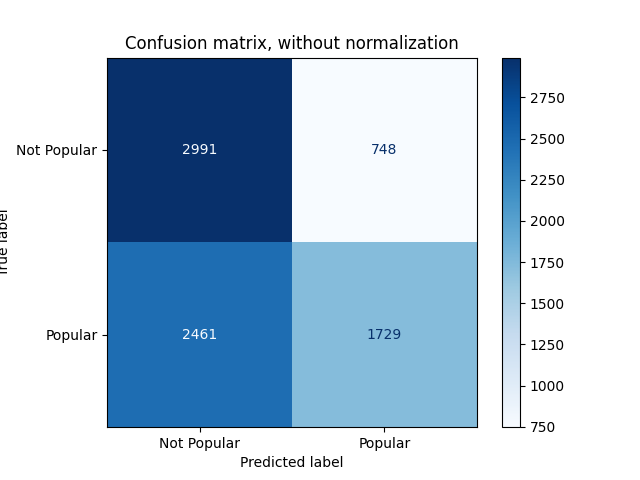
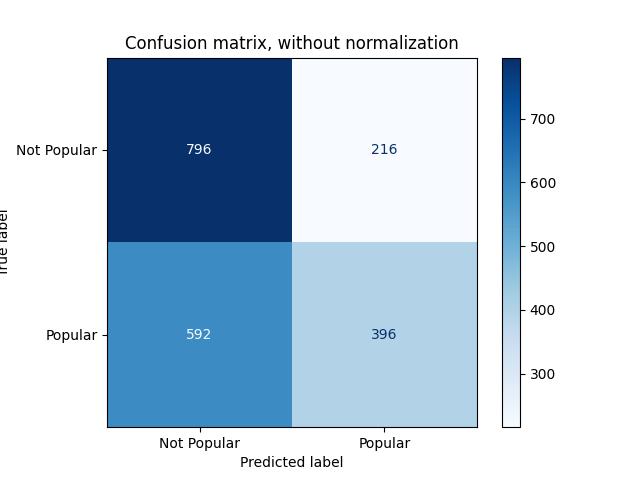
Add files via upload

diff --git a/PredictingNewsPopularityNB.py b/PredictingNewsPopularityNB.py
@@ -8,6 +8,8 @@ from sklearn.model_selection import train_test_split, GridSearchCV
 from sklearn.preprocessing import StandardScaler
 from sklearn.naive_bayes import GaussianNB
 from sklearn.metrics import confusion_matrix, accuracy_score, ConfusionMatrixDisplay
+from sklearn.utils import resample
+
 
 class bcolors:
     HEADER = '\033[95m'
@@ -58,6 +60,32 @@ def DropingIrrelevantData(df):
     df.drop('url', axis=1, inplace=True)
     df.drop('timedelta', axis=1, inplace=True)
     return df
+
+
+def Downsample(df, sample_number):
+    """
+    Support Vector Machines are great with small datasets, but not awesome with large ones,
+    downsample both categories, Articles that are popular and articles that are not popular
+    to the value we get as a parameter to the function each.
+    splitting the data into two dataframes, one for  Articles that are popular
+    and one for that are not popular.
+
+    :param df: data frame on which the classification is made
+    :param sample_number: The value selected for splitting
+    :return: New data frames splitting to 2 categories
+    """
+    df_popular = df[df['shares_threshold'] == 1]
+    df_no_popular = df[df['shares_threshold'] == 0]
+
+    df_popular_downsampled = resample(df_popular,
+                                      replace=False,
+                                      n_samples=sample_number,
+                                      random_state=42)
+    df_no_popular_downsampled = resample(df_no_popular,
+                                         replace=False,
+                                         n_samples=sample_number,
+                                         random_state=42)
+    return df_popular_downsampled, df_no_popular_downsampled
 
 
 def PrintResult():
@@ -128,9 +156,13 @@ columns = []
 for c in range(len(dataset.columns)-3):
     columns.append(c)
 
+# Splitting the data set into 2 categories to train the model on a limited number of information
+# You can change the number assigned to the splitting
+dfs1, dfs2 = Downsample(dataset, 5000)
+df_downsample = pd.concat([dfs1, dfs2])
 
-X = dataset.iloc[:, columns].values
-y = dataset.iloc[:, -1].values
+X = df_downsample.iloc[:, columns].values
+y = df_downsample.iloc[:, -1].values
 print(dataset)
 
 
@@ -163,4 +195,4 @@ CrossValidation(classifier)
 
 end = time.time()
 
-print(bcolors.GREYBG, f"Runtime of the Nave Base model is {end - start} seconds")
+print(bcolors.UNDERLINE, f"Runtime of the Nave Base model is {end - start} seconds")

diff --git a/PredictingNewsPopularitySVM.py b/PredictingNewsPopularitySVM.py
@@ -231,8 +231,8 @@ CrossValidation("sigmoid")
 
 end2 = time.time()
 
-print(bcolors.GREYBG, f"Runtime of the SVM model (without cross validation) is {end1 - start} seconds")
-print(bcolors.GREYBG, f"Runtime of the SVM model model (Total) is {end2 - start} seconds")
+print(bcolors.UNDERLINE, f"Runtime of the SVM model (without cross validation) is {end1 - start} seconds")
+print(bcolors.UNDERLINE, f"Runtime of the SVM model model (Total) is {end2 - start} seconds")
 
 
 
